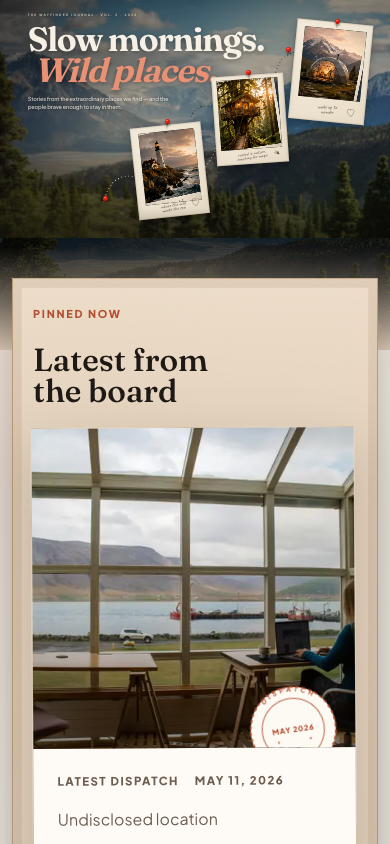
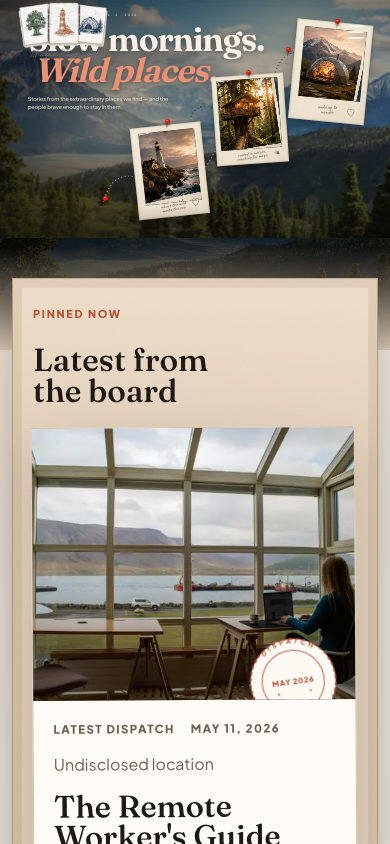
polish(journal): restore nav and tighten featured card

diff --git a/src/app/(app)/globals.css b/src/app/(app)/globals.css
@@ -1143,11 +1143,15 @@ body:has(.journal-hero) nextjs-portal {
   position: relative;
   z-index: 1;
   display: block;
+  width: min(100%, 1120px);
+  margin: 0 auto;
   text-decoration: none;
 }
 
 .featured-dispatch article {
   display: grid;
+  max-width: 1040px;
+  margin: 0 auto;
   overflow: hidden;
   background: var(--journal-white);
   border: 1px solid oklch(0.81 0.04 73);
@@ -1163,7 +1167,7 @@ body:has(.journal-hero) nextjs-portal {
 
 .featured-dispatch__image {
   position: relative;
-  min-height: clamp(20rem, 48vw, 39rem);
+  min-height: clamp(17rem, 36vw, 29rem);
   overflow: hidden;
   background: oklch(0.88 0.04 76);
 }
@@ -1209,8 +1213,8 @@ body:has(.journal-hero) nextjs-portal {
   display: flex;
   flex-direction: column;
   justify-content: center;
-  gap: 1rem;
-  padding: clamp(1.5rem, 4vw, 3.5rem);
+  gap: 0.8rem;
+  padding: clamp(1.25rem, 3vw, 2.5rem);
 }
 
 .featured-dispatch__telegram {
@@ -1227,7 +1231,7 @@ body:has(.journal-hero) nextjs-portal {
 .featured-dispatch h2 {
   margin: 0;
   font-family: var(--font-display);
-  font-size: clamp(2.15rem, 5vw, 5.3rem);
+  font-size: clamp(1.95rem, 4vw, 4.35rem);
   font-weight: 540;
   line-height: 0.96;
   text-wrap: balance;
@@ -1949,7 +1953,7 @@ body:has(.journal-hero) nextjs-portal {
 
 @media (min-width: 760px) {
   .featured-dispatch article {
-    grid-template-columns: minmax(0, 1.25fr) minmax(20rem, 0.75fr);
+    grid-template-columns: minmax(0, 1.08fr) minmax(18rem, 0.72fr);
   }
 
   .journal-index-hero__grid,

diff --git a/src/components/Navbar.tsx b/src/components/Navbar.tsx
@@ -34,7 +34,6 @@ export default function Navbar() {
 
   const isOnSpoke = SPOKE_SLUGS.some((s) => pathname === `/${s}`)
   const isDetailPage = pathname.startsWith('/stays/')
-  const hideNav = pathname === '/journal'
   const usesLightNav = scrolled || isDetailPage
 
   const navLinks = [
@@ -43,8 +42,6 @@ export default function Navbar() {
     { href: '/about', label: 'About' },
     { href: '/submit', label: 'Submit a Stay' },
   ]
-
-  if (hideNav) return null
 
   return (
     <>
